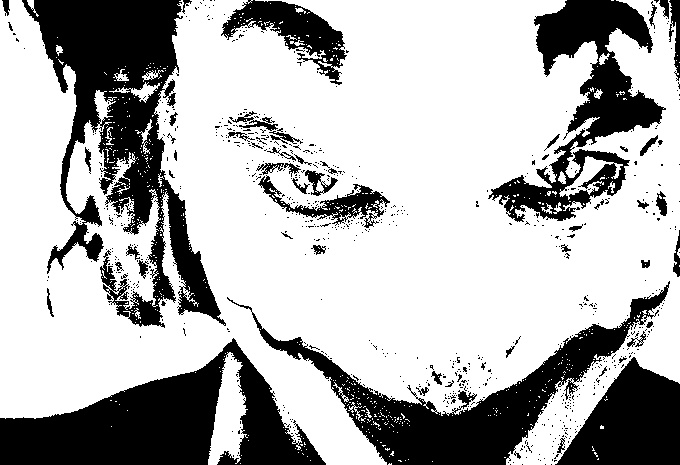
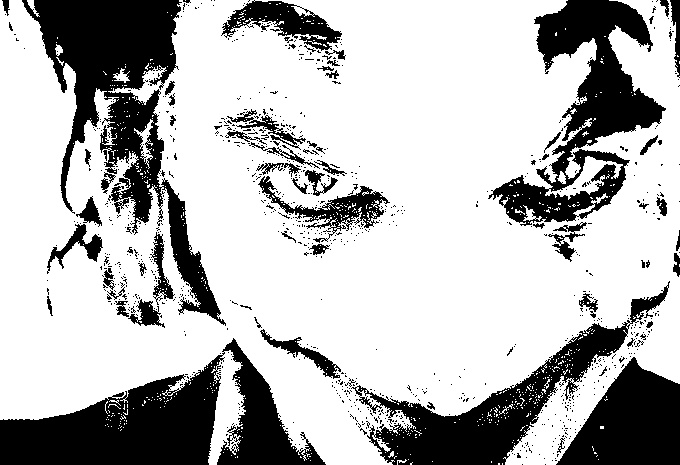
solved alterations on original image and rgb order issue | dual image display implemented

diff --git a/value/rgb_channels.py b/value/rgb_channels.py
@@ -4,23 +4,12 @@ import numpy as np
 
 class RGBChannelExtractor:
 
-    def red_pixel_extractor(pixel):
-        # recebe um pixel e zera o seu valor para verde e azul
-        pixel[1] = 0  # green
-        pixel[2] = 0  # blue
-        return [pixel[2], pixel[1], pixel[0]]
-
-    def green_pixel_extractor(pixel):
-        # recebe um pixel e zera o seu valor para vermelho e azul
-        pixel[2] = 0  # blue
-        pixel[0] = 0  # red
-        return [pixel[2], pixel[1], pixel[0]]
-
-    def blue_pixel_extractor(pixel):
-        # recebe um pixel e zera o seu valor para verde e vermelho
-        pixel[0] = 0  # red
-        pixel[1] = 0  # green
-        return [pixel[2], pixel[1], pixel[0]]
+    def pixel_extractor(pixel, rgb):
+        # recebe um pixel e extrai o canal escolhido
+        # rgb esta invertido [0] blue, [1] green, [2] red
+        isolated_pixel = [0, 0, 0]
+        isolated_pixel[rgb] = pixel[rgb]
+        return isolated_pixel
 
 
 class Extractor(object):
@@ -31,36 +20,55 @@ class Extractor(object):
         self.row = self.image.shape[0]
         self.col = self.image.shape[1]
         self.extracted_isolated_channel_image = np.zeros((self.row, self.col, self.image.shape[2]), np.uint8)
+        # self.extracted_isolated_channel_image2 = np.zeros((self.row, self.col, self.image.shape[2]), np.uint8)
 
     def red_channel(self):
         # recebe uma matriz imagem e percorre todas as linhas e colunas
-        # chamando o extrator de pixels vermelho
+        # chamando o extrator de pixels com valor 1 para vermelho
         # deixando a imgem com tons de vermelho
-        for i in range(self.row):
-            for j in range(self.col):
-                self.extracted_isolated_channel_image[i, j] = RGBChannelExtractor.red_pixel_extractor(self.image[i, j])
-        cv2.imshow('Red Channel', self.extracted_isolated_channel_image)
+
+        [self.extracted_isolated_channel_image[i, j].__setitem__(k, (
+            RGBChannelExtractor.pixel_extractor(self.image[i, j], 2))[k]) for i in range(self.row) for j in
+         range(self.col) for k in range(3)]
+
+        cv2.imshow('Red Channel', np.concatenate((self.image, self.extracted_isolated_channel_image), axis=1))
         cv2.waitKey(0)
         return self.extracted_isolated_channel_image
 
     def green_channel(self):
         # recebe uma matriz imagem e percorre todas as linhas e colunas
-        # chamando o extrator de pixels verde
+        # chamando o extrator de pixels com valor 1 para verde
         # deixando a imgem com tons de verde
-        for i in range(self.row):
-            for j in range(self.col):
-                self.extracted_isolated_channel_image[i, j] = RGBChannelExtractor.green_pixel_extractor(self.image[i, j])
-        cv2.imshow('Green Channel', self.extracted_isolated_channel_image)
+
+        [self.extracted_isolated_channel_image[i, j].__setitem__(k, (
+            RGBChannelExtractor.pixel_extractor(self.image[i, j], 1))[k]) for i in range(self.row) for j in
+         range(self.col) for k in range(3)]
+
+        cv2.imshow('Green Channel', np.concatenate((self.image, self.extracted_isolated_channel_image), axis=1))
         cv2.waitKey(0)
         return self.extracted_isolated_channel_image
 
     def blue_channel(self):
         # recebe uma matriz imagem e percorre todas as linhas e colunas
-        # chamando o extrator de pixels azul
+        # chamando o extrator de pixels com valor 0 para azul
         # deixando a imgem com tons de azul
-        for i in range(self.row):
-            for j in range(self.col):
-                self.extracted_isolated_channel_image[i, j] = RGBChannelExtractor.blue_pixel_extractor(self.image[i, j])
-        cv2.imshow('Blue Channel', self.extracted_isolated_channel_image)
+
+        [self.extracted_isolated_channel_image[i, j].__setitem__(k, (
+            RGBChannelExtractor.pixel_extractor(self.image[i, j], 0))[k]) for i in range(self.row) for j in
+         range(self.col) for k in range(3)]
+
+        cv2.imshow('Blue Channel', np.concatenate((self.image, self.extracted_isolated_channel_image), axis=1))
         cv2.waitKey(0)
         return self.extracted_isolated_channel_image
+
+# LOOP ORIGINAL
+#    def green_channel(self):
+#    # recebe uma matriz imagem e percorre todas as linhas e colunas
+#    # chamando o extrator de pixels com valor 1 para verde
+#    # deixando a imgem com tons de verde
+#        for i in range(self.row):
+#            for j in range(self.col):
+#                self.extracted_isolated_channel_image[i, j] = RGBChannelExtractor.pixel_extractor(self.image[i, j],1)
+#        cv2.imshow('Green Channel', self.extracted_isolated_channel_image)
+#        cv2.waitKey(0)
+#        return self.extracted_isolated_channel_image

diff --git a/value/gray_scale.py b/value/gray_scale.py
@@ -5,10 +5,10 @@ import numpy as np
 class GrayPonder:
     # recebe um pixel a multiplica os valores RGB para calcular a média ponderada
     def gray_pixel_manipulation(pixel):
-        pixel[2] = pixel[2] * 0.1140  # blue
-        pixel[1] = pixel[1] * 0.5870  # green
-        pixel[0] = pixel[0] * 0.2989  # red
-        return [pixel[0], pixel[1], pixel[2]]
+        #recebe pixel e aplica a multiplicação nos valores RGB invertido
+        # [0] blue, [1] green, [2] red
+        gray_pixel = [pixel[0] * 0.1140, pixel[1] * 0.5870, pixel[2] * 0.2999]
+        return gray_pixel
 
 
 class GrayScale(object):
@@ -27,7 +27,7 @@ class GrayScale(object):
         for i in range(self.row):
             for j in range(self.col):
                 self.extracted_grayscale_image[i, j] = sum(self.image[i, j]) * 0.33
-        cv2.imshow('Simple Grayscale Image', self.extracted_grayscale_image)
+        cv2.imshow('Simple Grayscale Image', np.concatenate((self.image,self.extracted_grayscale_image), axis=1))
         cv2.waitKey(0)
         return self.extracted_grayscale_image
 
@@ -38,7 +38,7 @@ class GrayScale(object):
         for i in range(self.row):
             for j in range(self.col):
                 self.extracted_grayscale_image[i, j] = sum(GrayPonder.gray_pixel_manipulation(self.image[i, j]))
-        cv2.imshow('Ponder Grayscale Image', self.extracted_grayscale_image)
+        cv2.imshow('Ponder Grayscale Image', np.concatenate((self.image, self.extracted_grayscale_image), axis=1))
         cv2.waitKey(0)
         return self.extracted_grayscale_image
 
@@ -53,6 +53,7 @@ class GrayScale(object):
                     self.extracted_binary_image[i, j] = 255
                 else:
                     self.extracted_binary_image[i, j] = 0
-        cv2.imshow('Black and White Image', self.extracted_binary_image)
+        cv2.imshow('Binary Image', np.concatenate((self.image, self.extracted_grayscale_image, self.extracted_binary_image), axis=1))
         cv2.waitKey(0)
+
         return self.extracted_binary_image

diff --git a/main.py b/main.py
@@ -283,13 +283,13 @@ if __name__ == '__main__':
     # test_division()
 
     ##Testes de valor
-    # test_gray_simple_convert()
-    # test_gray_ponder_convert()
-    # test_red_channel()
-    # test_green_channel()
-    # test_blue_channel()
+    #test_gray_simple_convert()
+    #test_gray_ponder_convert()
+    #test_red_channel()
+    #test_green_channel()
+    #test_blue_channel()
     # test_histogram()
-    # test_threshold()
+    test_threshold()
     # test_negative_image()
 
     ## Testes de espaço

diff --git a/value/negative_image.py b/value/negative_image.py
@@ -16,7 +16,7 @@ class NegativeImage(object):
         [self.extracted_negative_image[i, j].__setitem__(k, 255 - self.image[i, j][k]) for i in range(self.row) for j in
                          range(self.col) for k in range(3)]
 
-        cv2.imshow('Negative Image', self.extracted_negative_image)
+        cv2.imshow('Negative Image', np.concatenate((self.image, self.extracted_negative_image), axis=1))
         cv2.waitKey(0)
         return self.extracted_negative_image
 
